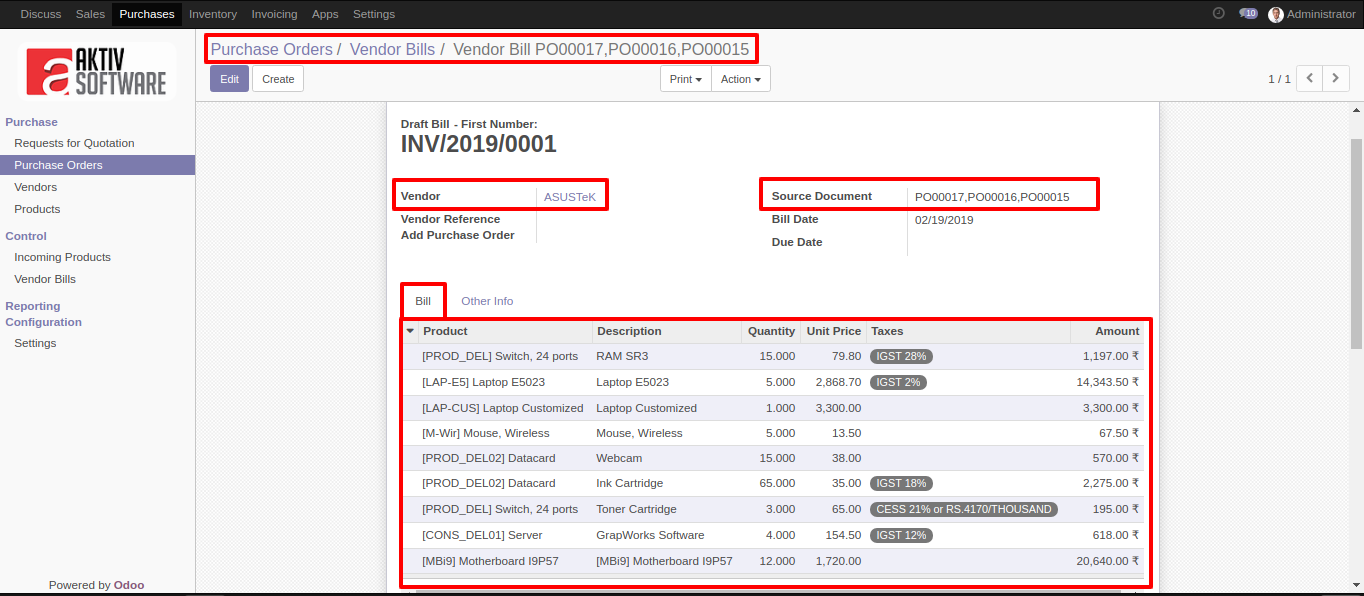
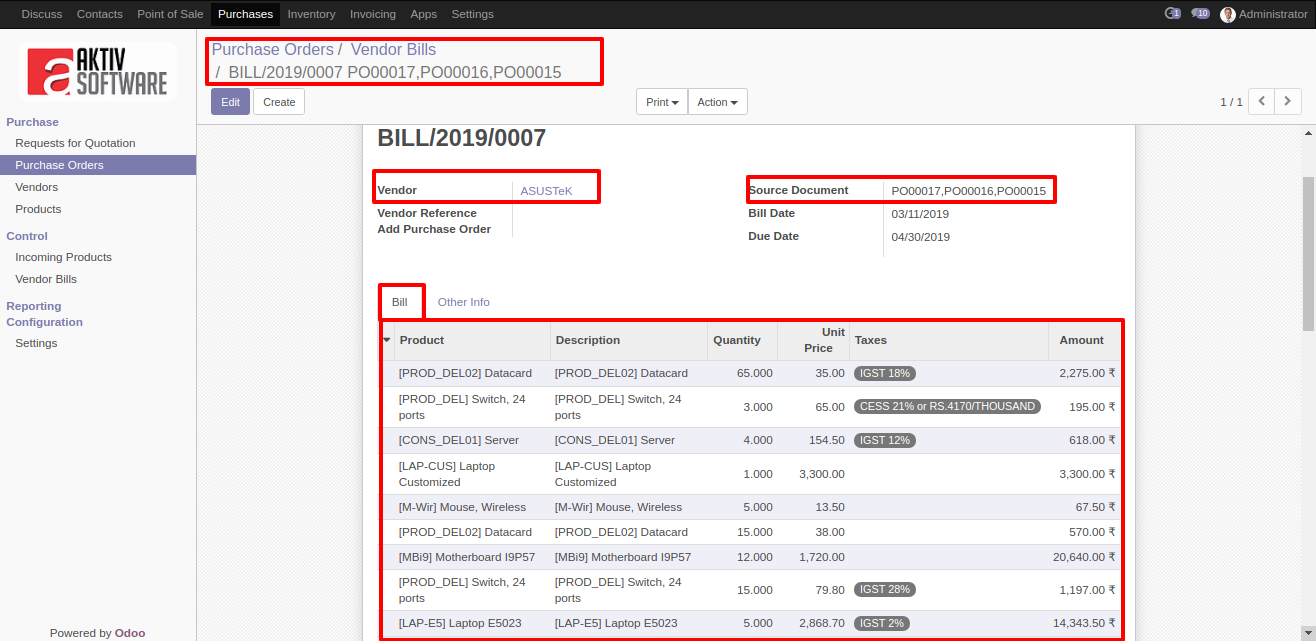
[IMP] improve code of Index design/content issue,state update issue after creating vendor bill,sequence issue after creating vendor bill.

diff --git a/single_vendorbill_purchase/static/description/index.html b/single_vendorbill_purchase/static/description/index.html
@@ -1,14 +1,12 @@
 <section class="oe_container">
     <div class="oe_row oe_centered">
-        <div class="oe_span_10 oe_centered">
-            <h4 class="oe_slogan" style="margin-left: 120px;"><b><span class="fa fa-star fa-spin"></span>
-                    Single Vendor Bill From Multiple Purchase Order </span></b></h4>
-        </div>
+        <center><h1><b><span class="fa fa-star fa-spin"></span>
+        Single Vendor Bill From Multiple Purchase Order </span></b></h1></center>
     </div>
 
     <p align="left">The primary purpose of this module is to easily create single vendor bill from the multiples Purchase orders. You don't need to create vendor bill manually.Just select purchase orders of same vendors and click on action for "Create Single Vendor Bill" and you are ready to go.</p>
 
-    <p align="left">Below listed are features of “Merge Sale Order” module:</p>
+    <p align="left">Below listed are features of “Single Vendor Bill From Multiple Purchase Order” module:</p>
 
     <div class="oe_row oe_centered">
         <div class="oe_span_10 oe_centered">

diff --git a/single_vendorbill_purchase/wizard/single_vendor_bill.py b/single_vendorbill_purchase/wizard/single_vendor_bill.py
@@ -1,6 +1,7 @@
 # -*- coding: utf-8 -*-
 
 from odoo import fields, models, api, _
+from odoo.tools.float_utils import float_is_zero, float_compare
 from odoo.exceptions import UserError
 import datetime
 
@@ -58,14 +59,16 @@ class SingleVendorBill(models.TransientModel):
 		invoice_line = self.env['account.invoice.line']
 		purchase_orders = self.env['purchase.order'].browse(self._context.get('active_ids'))
 		name_orders = [order.name for order in purchase_orders]
-		journal_id = self.env['account.invoice'].default_get(['journal_id'])['journal_id']
+		journal_id = self.env['account.journal'].search([('type','=','purchase')])
+		partner_ids = [order.partner_id for order in purchase_orders if order.partner_id.id]
 		invoice_lines = []
 		for order in purchase_orders:
 			for line in order.order_line:
+				account_id = line.product_id.property_account_expense_id or line.product_id.categ_id.property_account_expense_categ_id
 				invoice_lines.append(((0,0,{
 							'name': line.name,
 							'origin': line.order_id.name,
-							'account_id': invoice_line.with_context({'journal_id': journal_id, 'type': 'in_invoice'})._default_account(),
+							'account_id': account_id.id,
 							'price_unit': line.price_unit,
 							'quantity': line.product_qty,
 							'uom_id': line.product_uom.id,
@@ -77,9 +80,10 @@ class SingleVendorBill(models.TransientModel):
 							'origin':','.join(map(str, name_orders)),
 							'date_invoice':datetime.datetime.now().date(),
 							'type': 'in_invoice',
+							'state':'draft',
 							'partner_id': order.partner_id.id,
 							'invoice_line_ids': invoice_lines,
-							'journal_id': journal_id,
+							'journal_id': journal_id.id or False,
 							'comment': order.notes,
 							'payment_term_id': order.payment_term_id.id,
 							'fiscal_position_id': order.fiscal_position_id.id,
@@ -87,5 +91,17 @@ class SingleVendorBill(models.TransientModel):
 							'user_id': order.activity_user_id and order.activity_user_id.id,
 						}
 		vendor_bill_id = self.env['account.invoice'].create(vendor_bill_vals)
+		if vendor_bill_id:
+			precision = self.env['decimal.precision'].precision_get('Product Unit of Measure')
+			for order in purchase_orders:
+				if order.state not in ('purchase', 'done'):
+					order.invoice_status = 'no'
+					continue
+				if any(float_compare(line.qty_invoiced, line.product_qty if line.product_id.purchase_method == 'purchase' else line.qty_received, precision_digits=precision) == -1 for line in order.order_line):
+					order.invoice_status = 'to invoice'
+				elif all(float_compare(line.qty_invoiced, line.product_qty if line.product_id.purchase_method == 'purchase' else line.qty_received, precision_digits=precision) >= 0 for line in order.order_line):
+					order.invoice_status = 'invoiced'
+				else:
+					order.invoice_status = 'no'
 		vendor_bill_id._onchange_invoice_line_ids()
 		return vendor_bill_id

diff --git a/single_vendorbill_purchase/__manifest__.py b/single_vendorbill_purchase/__manifest__.py
@@ -4,7 +4,7 @@
     'name': 'Single Vendor Bill From Multiple Purchase Order',
     'category': 'Purchase',
     'summary': 'This module will create single vendor bill of multiple purchase orders.',
-    'version': '11.0.1.0.0',
+    'version': '11.0.1.0.1',
     'website': 'http://www.aktivsoftware.com',
     'author': 'Aktiv Software',
     'description': 'Create single vendor bill from multiple purchase order',
